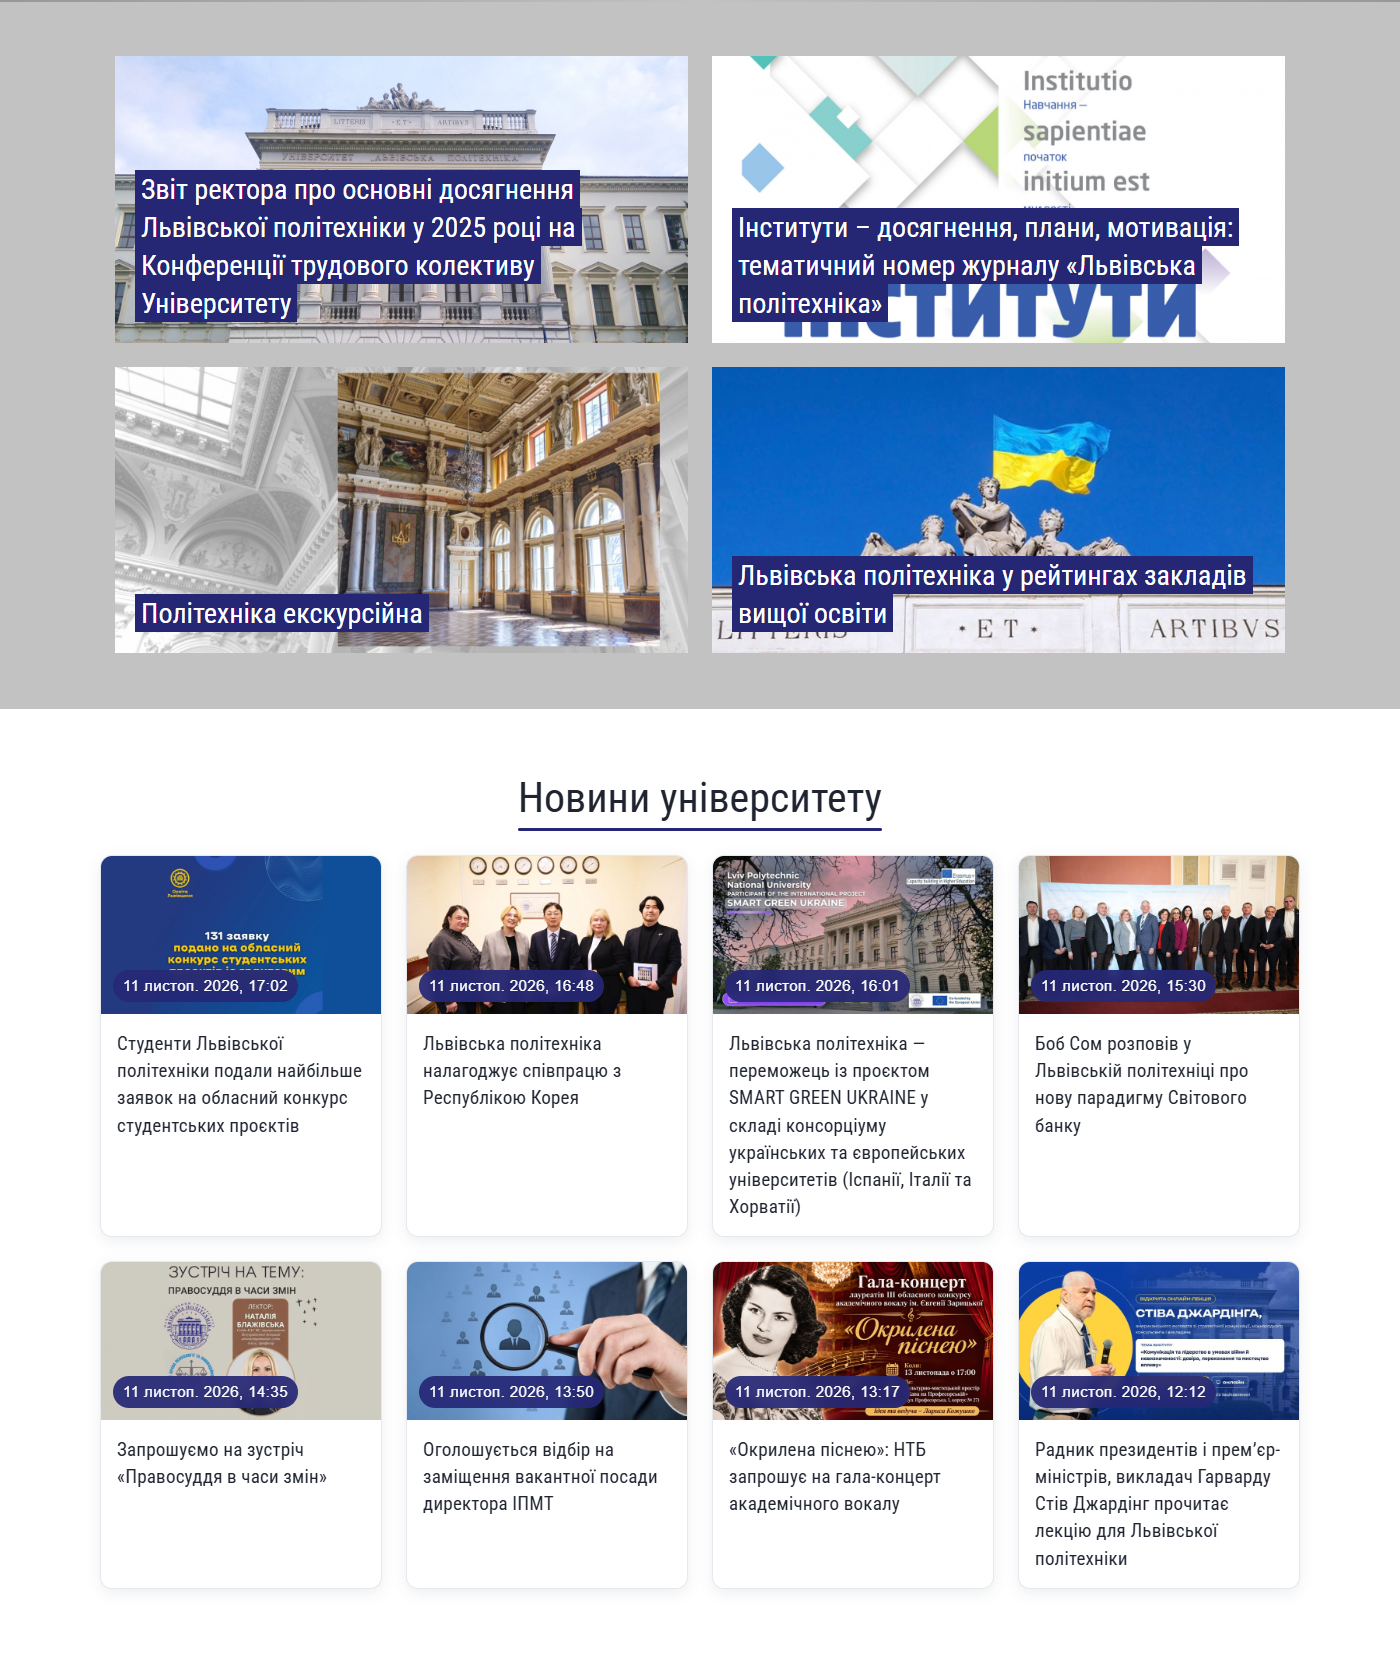
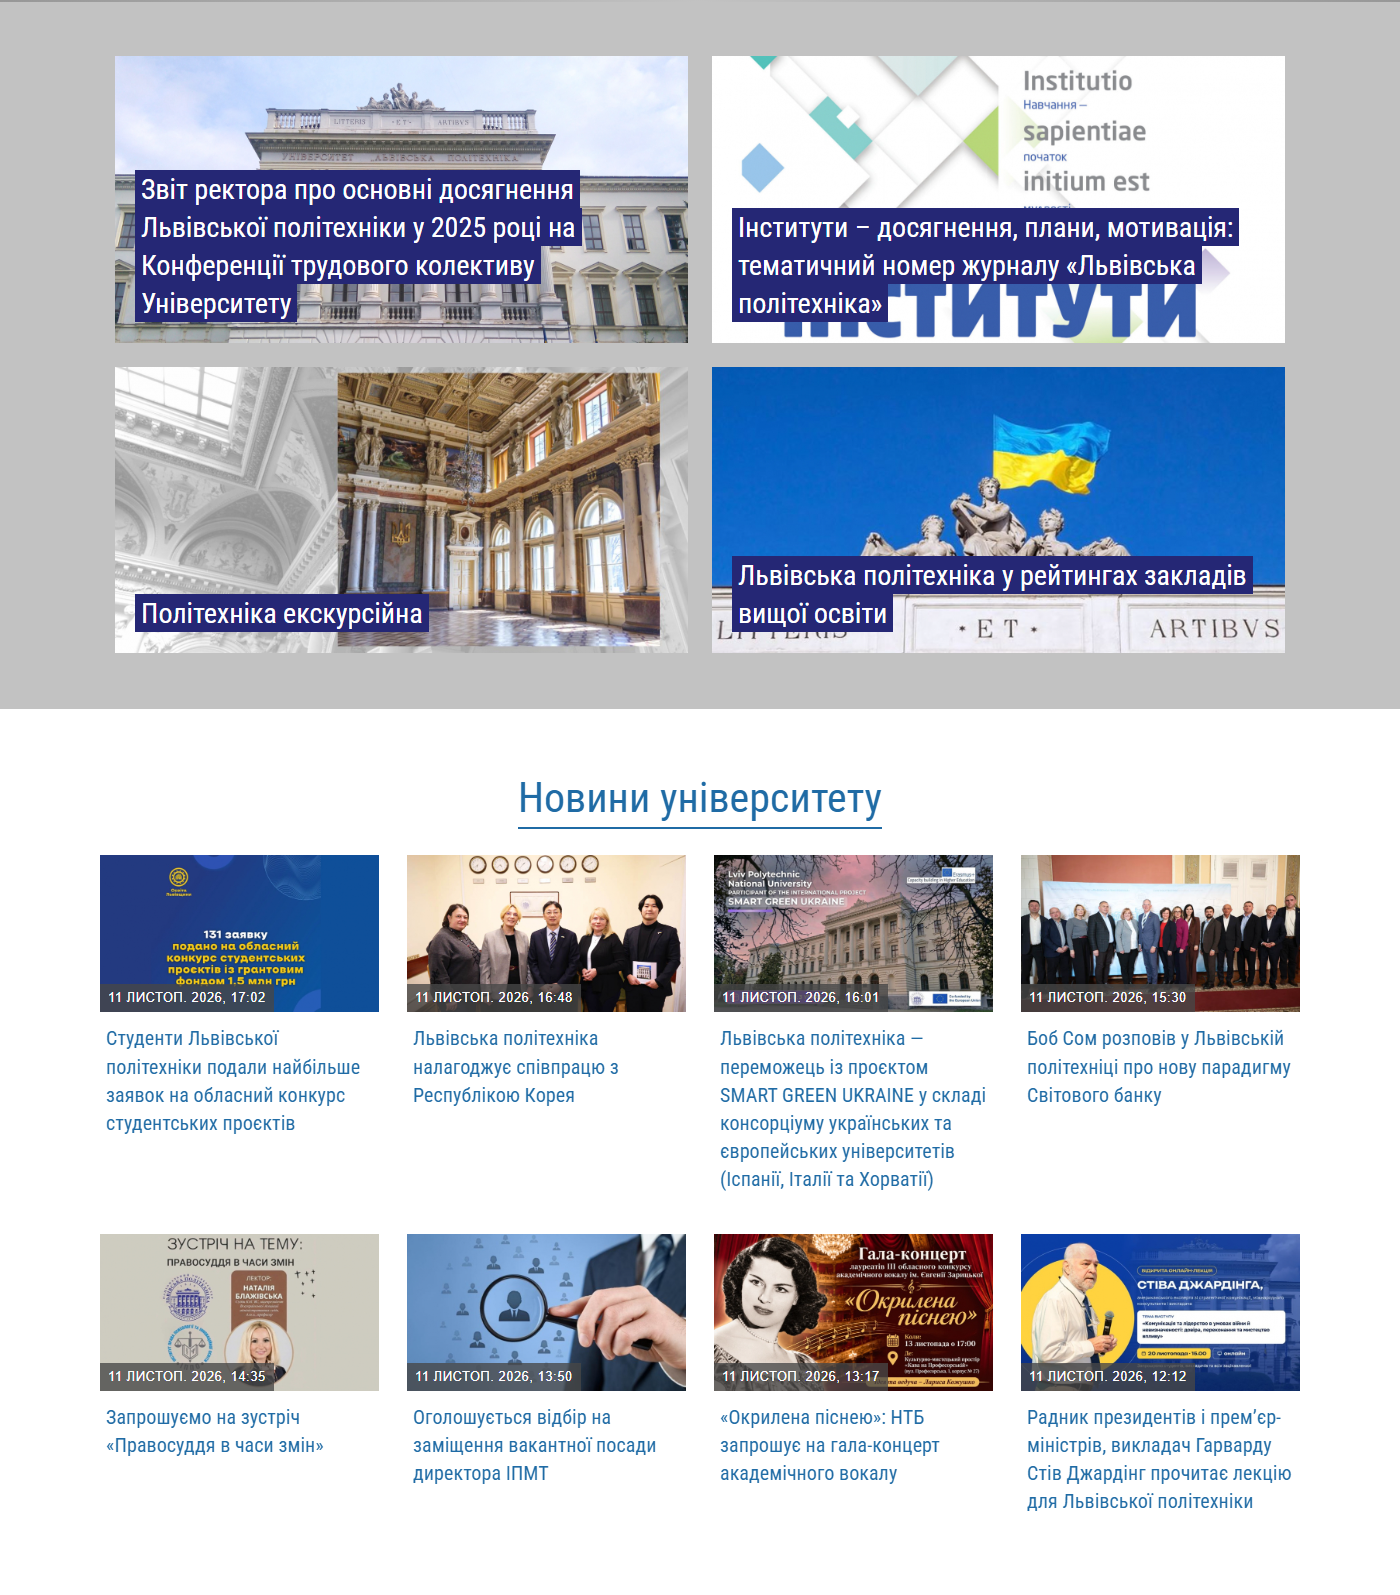
lab7: flat news cards, square date plates, blue titles like lpnu.ua

diff --git a/lab7/css/styles.css b/lab7/css/styles.css
@@ -7,16 +7,11 @@
     --brand: #252775;
     --brand-hover: #00a1e4;
     --ink: #1f2430;
-    --muted: #6b7280;
-    --line: #e6e8ef;
     --surface: #ffffff;
     --page-bg: #f4f5f9;
     --featured-bg: #c2c2c2;
-    --radius: 12px;
     --gap: 24px;
     --container: 1200px;
-    --shadow-sm: 0 4px 14px rgb(31 36 48 / 8%);
-    --shadow-lg: 0 18px 40px rgb(31 36 48 / 16%);
     --ease: cubic-bezier(.22, .61, .36, 1);
 }
 
@@ -219,7 +214,7 @@ main {
 
 .view-header h2 a {
     position: relative;
-    color: var(--ink);
+    color: #1f6ba5;
     text-decoration: none;
     transition: color .3s var(--ease);
 }
@@ -228,38 +223,32 @@ main {
     content: "";
     position: absolute;
     right: 0;
-    bottom: -8px;
+    bottom: -6px;
     left: 0;
-    height: 3px;
-    background: var(--brand);
-    border-radius: 2px;
+    height: 2px;
+    background: #1f6ba5;
     transform-origin: left center;
     animation: line-grow .8s .25s var(--ease) both;
     transition: background .3s var(--ease);
 }
 
 .view-header h2 a:hover {
-    color: var(--brand-hover);
+    color: #144f7c;
 }
 
 .view-header h2 a:hover::after {
-    background: var(--brand-hover);
+    background: #144f7c;
 }
 
 /* сітка новин */
 .news-grid {
     display: grid;
     grid-template-columns: minmax(0, 1fr); /* mobile: 1 колонка */
-    gap: var(--gap);
+    gap: 40px 28px;
 }
 
 .news-card {
-    overflow: hidden;
-    border: 1px solid var(--line);
-    border-radius: var(--radius);
-    background: var(--surface);
-    box-shadow: var(--shadow-sm);
-    transition: transform .35s var(--ease), box-shadow .35s var(--ease), border-color .35s var(--ease);
+    background: transparent;
     animation: card-fade-up .6s var(--ease) both;
 }
 
@@ -271,12 +260,6 @@ main {
 .news-card:nth-child(6) { animation-delay: .24s; }
 .news-card:nth-child(7) { animation-delay: .28s; }
 .news-card:nth-child(8) { animation-delay: .32s; }
-
-.news-card:hover {
-    transform: translateY(-6px);
-    border-color: #cfd4e4;
-    box-shadow: var(--shadow-lg);
-}
 
 .news-card-link {
     display: flex;
@@ -304,22 +287,22 @@ main {
 
 .news-date {
     position: absolute;
-    bottom: 12px;
-    left: 12px;
-    padding: 4px 10px;
-    border-radius: 999px;
-    background: rgb(37 39 117 / 92%);
+    bottom: 0;
+    left: 0;
+    padding: 4px 8px;
+    background: rgb(70 70 70 / 78%);
     color: #fff;
-    font-size: .85rem;
-    letter-spacing: .02em;
-    backdrop-filter: blur(4px);
+    font-size: .72rem;
+    letter-spacing: .04em;
+    text-transform: uppercase;
 }
 
 .news-card h3 {
     margin: 0;
-    padding: 16px;
+    padding: 12px 6px 0;
+    color: #1f6ba5;
     font-family: 'Roboto Condensed', sans-serif;
-    font-size: 1.08rem;
+    font-size: 1.12rem;
     font-style: normal;
     font-weight: normal;
     line-height: 1.4;
@@ -327,7 +310,8 @@ main {
 }
 
 .news-card:hover h3 {
-    color: var(--brand-hover);
+    color: #144f7c;
+    text-decoration: underline;
 }
 
 /* ---------- Анімації ---------- */

diff --git a/lab7/README.md b/lab7/README.md
@@ -93,7 +93,7 @@ lab7/
 .news-grid {
     display: grid;
     grid-template-columns: minmax(0, 1fr);   /* mobile */
-    gap: var(--gap);
+    gap: 40px 28px;                          /* рядки / колонки */
 }
 ```
 
@@ -107,13 +107,16 @@ lab7/
 }
 ```
 
+Оформлення карток новин — плоске, як на lpnu.ua: без рамок, заокруглень і тіней. Дата лежить на сірій прямокутній плашці в нижньому лівому куті фото, а заголовок — синій (`#1f6ba5`) під зображенням.
+
 ### 4.3. Transitions та animations
 
 Переходи (transitions):
 
 - зображення featured-картки: `transform` (масштабування при наведенні);
 - фон заголовка `h2 span`: `background` (зміна кольору з `#252775` на `#00a1e4`);
-- картки новин: `transform`, `box-shadow`, `border-color`;
+- зображення новини: `transform` (масштабування при наведенні);
+- заголовок новини `h3`: `color` (зміна кольору на темніший);
 - заголовок розділу: анімоване підкреслення.
 
 Анімації (`@keyframes`):
@@ -185,8 +188,8 @@ lab7/
 | Основний текст | 18 px | 18 px |
 | Заголовок featured-картки | 21.6 px | 28 px |
 | Заголовок «Новини університету» | 31.5 px | 42 px |
-| Заголовок новини | 19.4 px | 19.4 px |
-| Дата новини | 15.3 px | 15.3 px |
+| Заголовок новини | 20.2 px | 20.2 px |
+| Дата новини | 13 px | 13 px |
 
 ## 5. Результати перевірки адаптивності
 
@@ -205,7 +208,7 @@ lab7/
 
 - усі 12 зображень завантажуються (`naturalWidth > 0`);
 - у консолі браузера немає помилок і попереджень;
-- hover-ефекти працюють: фон заголовка змінюється на `rgb(0, 161, 228)`, прозорість градієнта — на `0.15`, зображення масштабується (`scale(1.05)`);
+- hover-ефекти працюють: у featured-картках фон заголовка змінюється на `rgb(0, 161, 228)`, зображення масштабується (`scale(1.05)`); у новинах зображення масштабується (`scale(1.06)`), а заголовок темнішає;
 - усі посилання меню лабораторних повертають HTTP 200.
 
 ### Скріншоти
